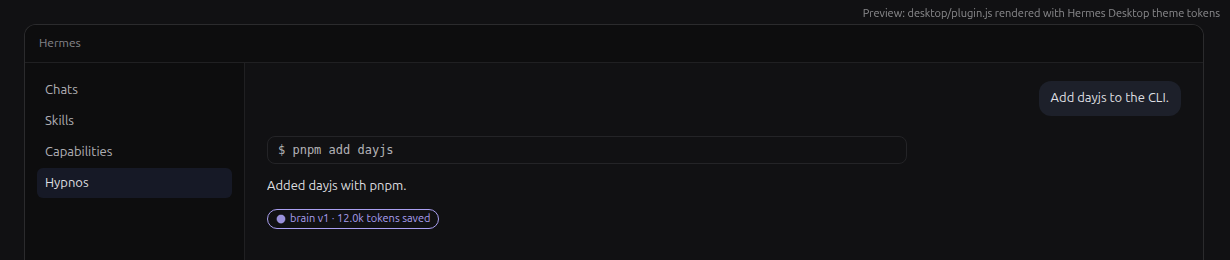
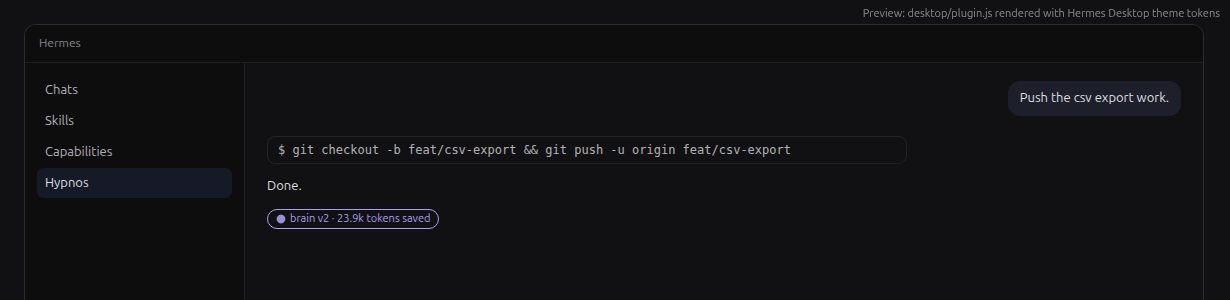
docs: Desktop previews from the GPU timelapse
The previews now render the five-day GPU run: the /hypnos page on night
2 with the per-day token chart, and the real day-5 turn behind the reply
badge. make_fixtures.py exports that turn's request, command and answer
so the preview's chat is the real one instead of a hard-coded example.

Claude-Session: https://claude.ai/code/session_01B3ZBHkVPurPDRn7WB4X9CU

diff --git a/tests/desktop/make_fixtures.py b/tests/desktop/make_fixtures.py
@@ -18,12 +18,24 @@ from hypnos.config import DEFAULTS  # noqa: E402
 def main(db_path: str, out: str) -> None:
     conn = dbmod.open_db(db_path)
     turn = conn.execute("SELECT turn_id FROM routes WHERE mode = 'brain' ORDER BY id DESC LIMIT 1").fetchone()
+    chat = None
+    if turn:
+        # The preview's chat shows the real turn behind the badge: its request, command and final answer.
+        episode = conn.execute("SELECT id, user_message FROM episodes WHERE turn_id = ?", (turn[0],)).fetchone()
+        if episode:
+            steps = conn.execute("SELECT args_json, text FROM steps WHERE episode_id = ? ORDER BY step_index",
+                                 (episode[0],)).fetchall()
+            command = next((dbmod.loads(a, {}).get("command", "") for a, _ in steps if a), "")
+            reply = next((t for _, t in steps if t), "")
+            chat = {"user": episode[1], "command": command, "reply": reply}
     conn.close()
     fx = {"/status": webapi.status(db_path, dict(DEFAULTS)), "/night": webapi.night(db_path),
           "/nights": webapi.nights(db_path), "/report": webapi.report(db_path), "/metrics": webapi.metrics(db_path),
           "/sessions": webapi.sessions(db_path), "/habits": webapi.habits(db_path)}
     if turn:
         fx[f"/turns/{turn[0]}"] = webapi.turn(db_path, turn[0])
+    if chat:
+        fx["_chat"] = chat
     Path(out).write_text(json.dumps(fx, default=str))
     print(f"wrote {out} ({', '.join(fx)})")
 

diff --git a/docs/screenshots/README.md b/docs/screenshots/README.md
@@ -1,8 +1,22 @@
 # Screenshots
 
-`preview-*.png` are previews: the real `desktop/plugin.js` components, fed by the real REST data of a real
-night (SmolLM2-135M trained on CPU, dreams in the Docker sandbox), rendered with Hermes Desktop's own
-theme token values by `tests/desktop/preview.mjs`. The window frame around them is a mock-up, not the Hermes
-app.
+`preview-*.png` are previews: the real `desktop/plugin.js` components, fed by the real REST data of the
+five-day GPU timelapse in the README (Qwen3-0.6B on an A40, synthetic demo data), rendered with Hermes
+Desktop's own theme token values by `tests/desktop/preview.mjs`. The window frame around them is a mock-up,
+not the Hermes app.
+
+- `preview-report-dark.png`, `preview-report-light.png`: the `/hypnos` page on night 2, the last promoted
+  night. The fixture points the page at that night, so the picker still reads "Latest night".
+- `preview-reply-badge.png`: the real day-5 turn behind the badge ("Push the csv export work.", answered by
+  brain v2 in two calls).
+
+To rebuild them from any Hypnos database:
+
+```bash
+python tests/desktop/make_fixtures.py DATA.db tests/desktop/fixtures.json
+cd tests/desktop && npm install
+sed "s#'@hermes/plugin-sdk'#'./sdk-stub.mjs'#" ../../desktop/plugin.js > plugin.mjs
+node preview.mjs fixtures.json OUT_DIR    # then screenshot OUT_DIR/*.html at 1230 px wide
+```
 
 Captures from Hermes Desktop itself belong here too; the checklist is in `docs/submission/PR.md`.

diff --git a/README.md b/README.md
@@ -11,9 +11,9 @@ personal model, a LoRA brain. In the morning the brain takes an exam. If it beat
 Hermes routes the turns it has mastered to it, and the habits now living in its weights are pruned from its
 prompt. The prompt gets smaller every night while the work stays correct.
 
-![The Hypnos morning report after a real night: hypnogram, sleep study, exam deltas, the habit moved into the weights](docs/screenshots/preview-report-dark.png)
+![The Hypnos page after five synthetic days: hypnogram, sleep study, exam deltas, habits moved into the weights, prompt tokens per turn falling by day](docs/screenshots/preview-report-dark.png)
 
-<sub>Preview of the Desktop plugin rendered from a real night's data (SmolLM2-135M trained on CPU, dreams in Docker); the window frame is a mock-up. See `docs/screenshots/`.</sub>
+<sub>Preview of the Desktop plugin rendered from the real data of the GPU timelapse below (Qwen3-0.6B on an A40, synthetic demo data); the window frame is a mock-up. See `docs/screenshots/`.</sub>
 
 ## Habits go into the weights, facts stay in memory
 
